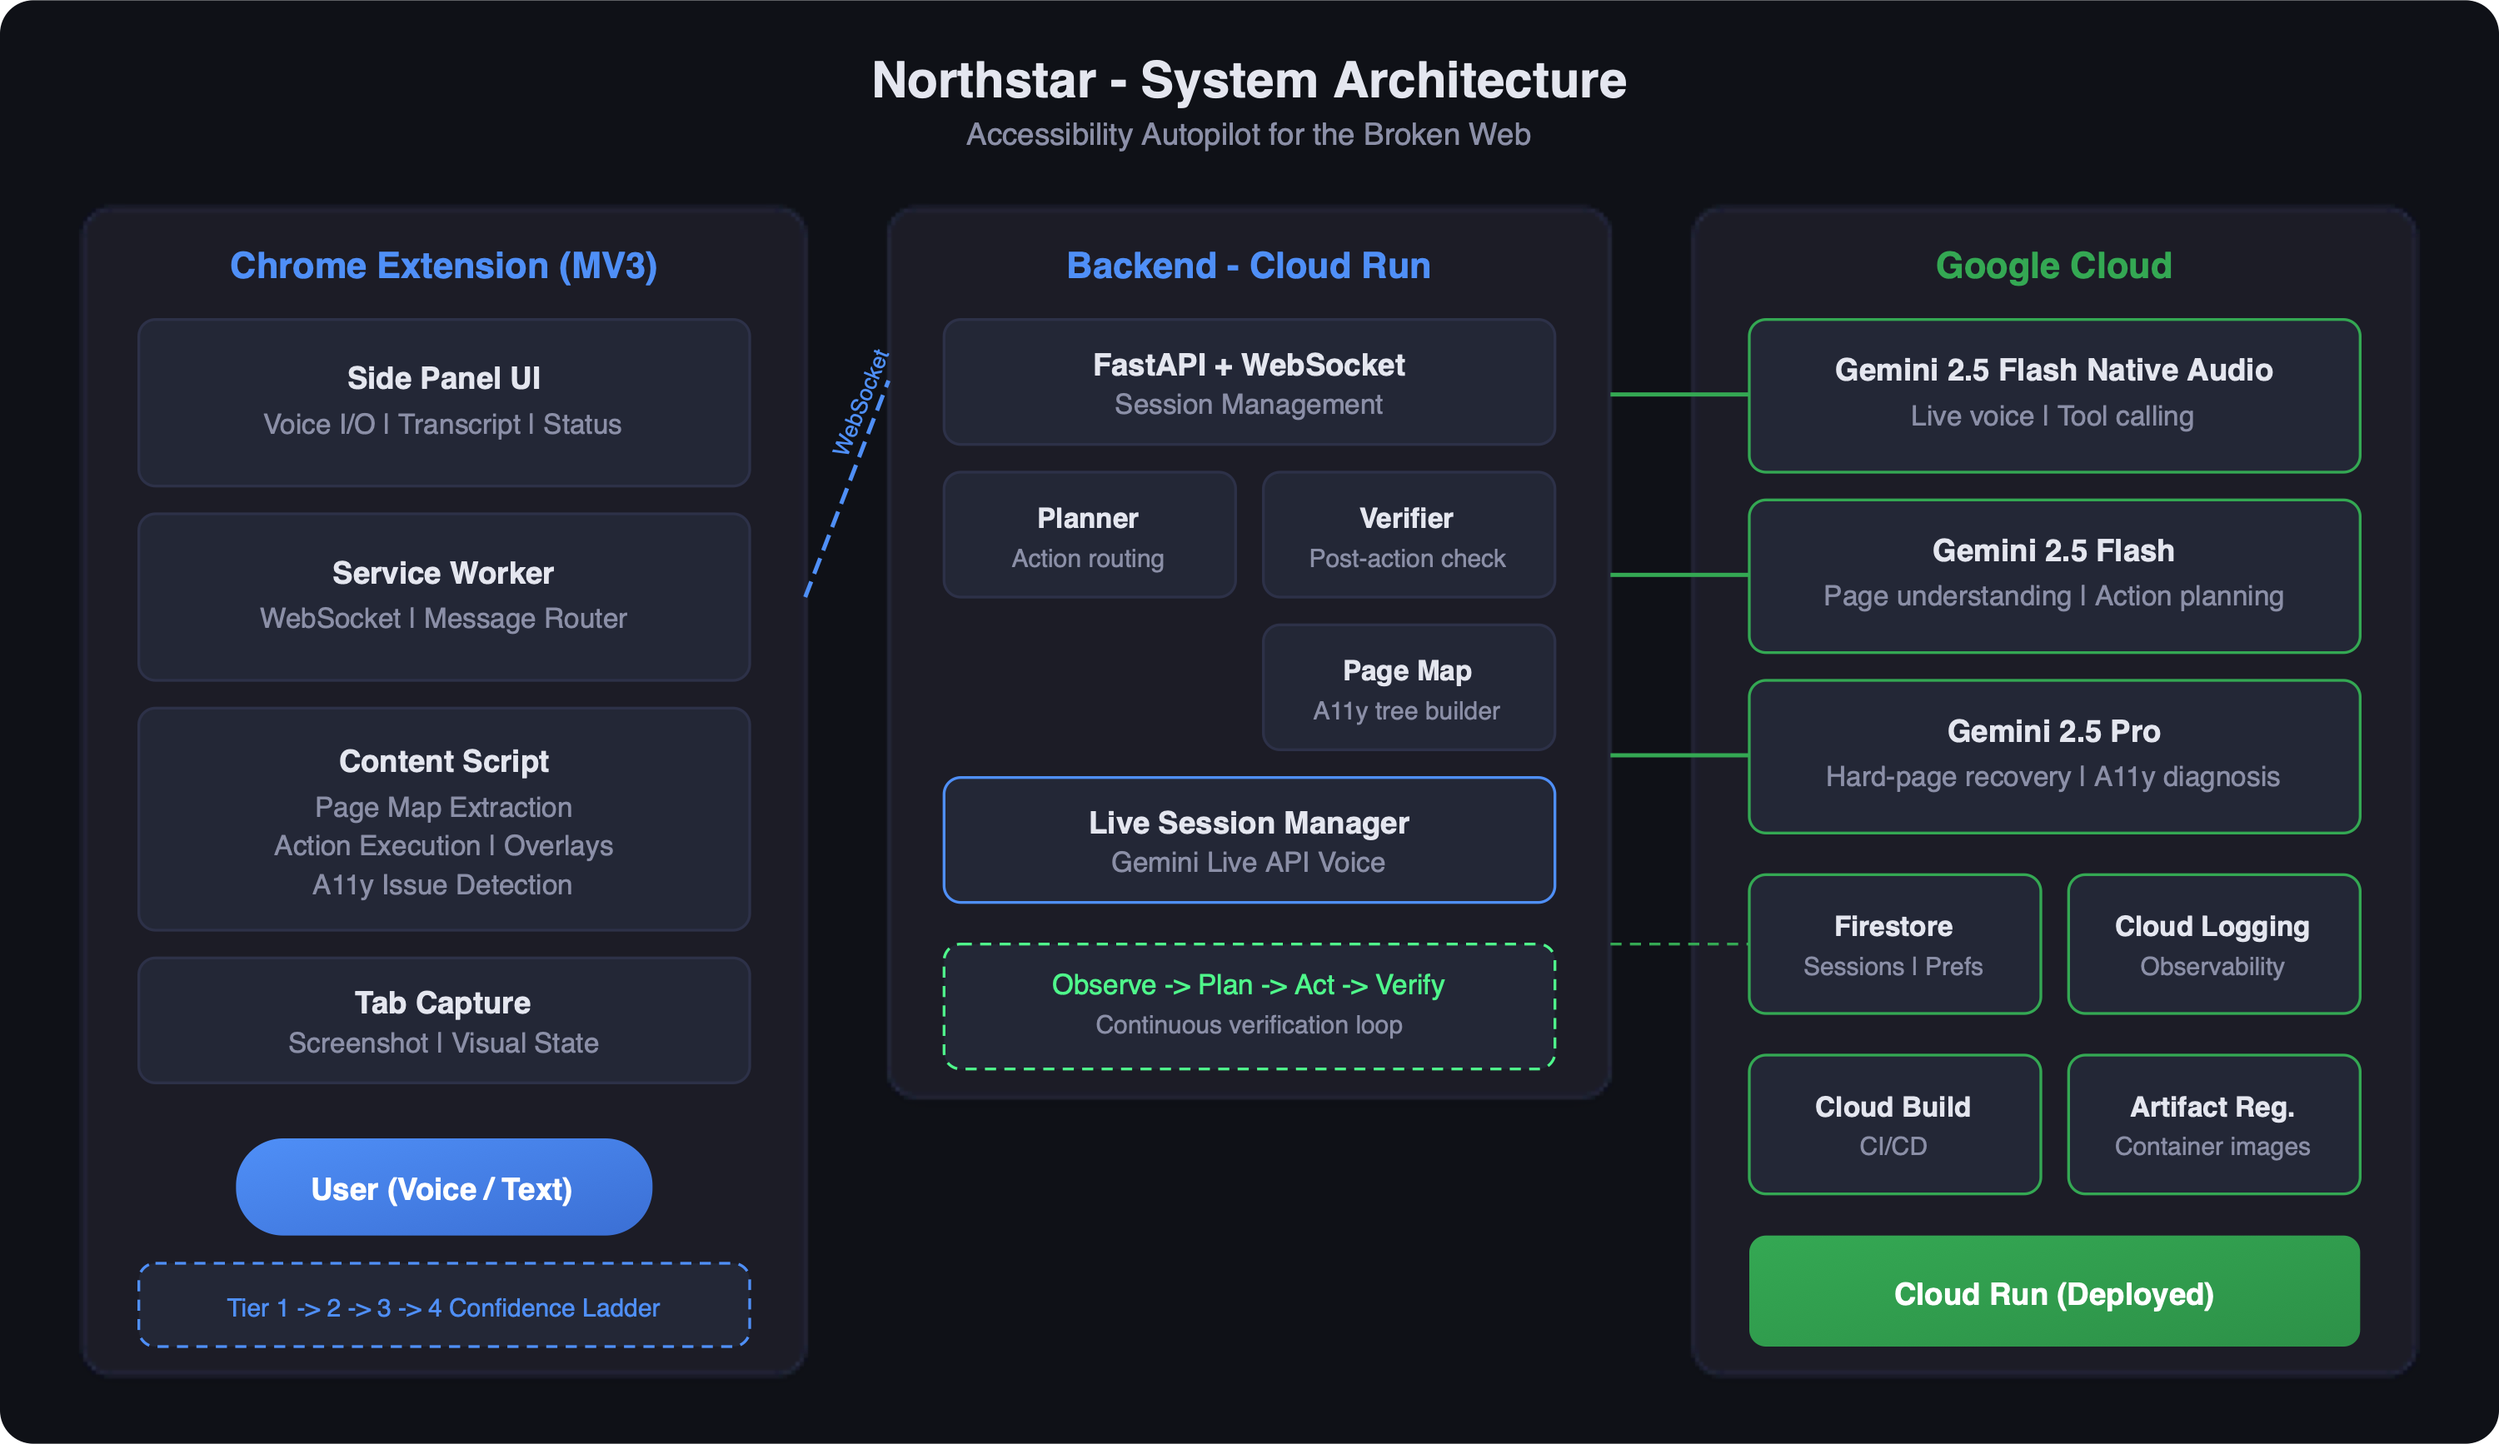
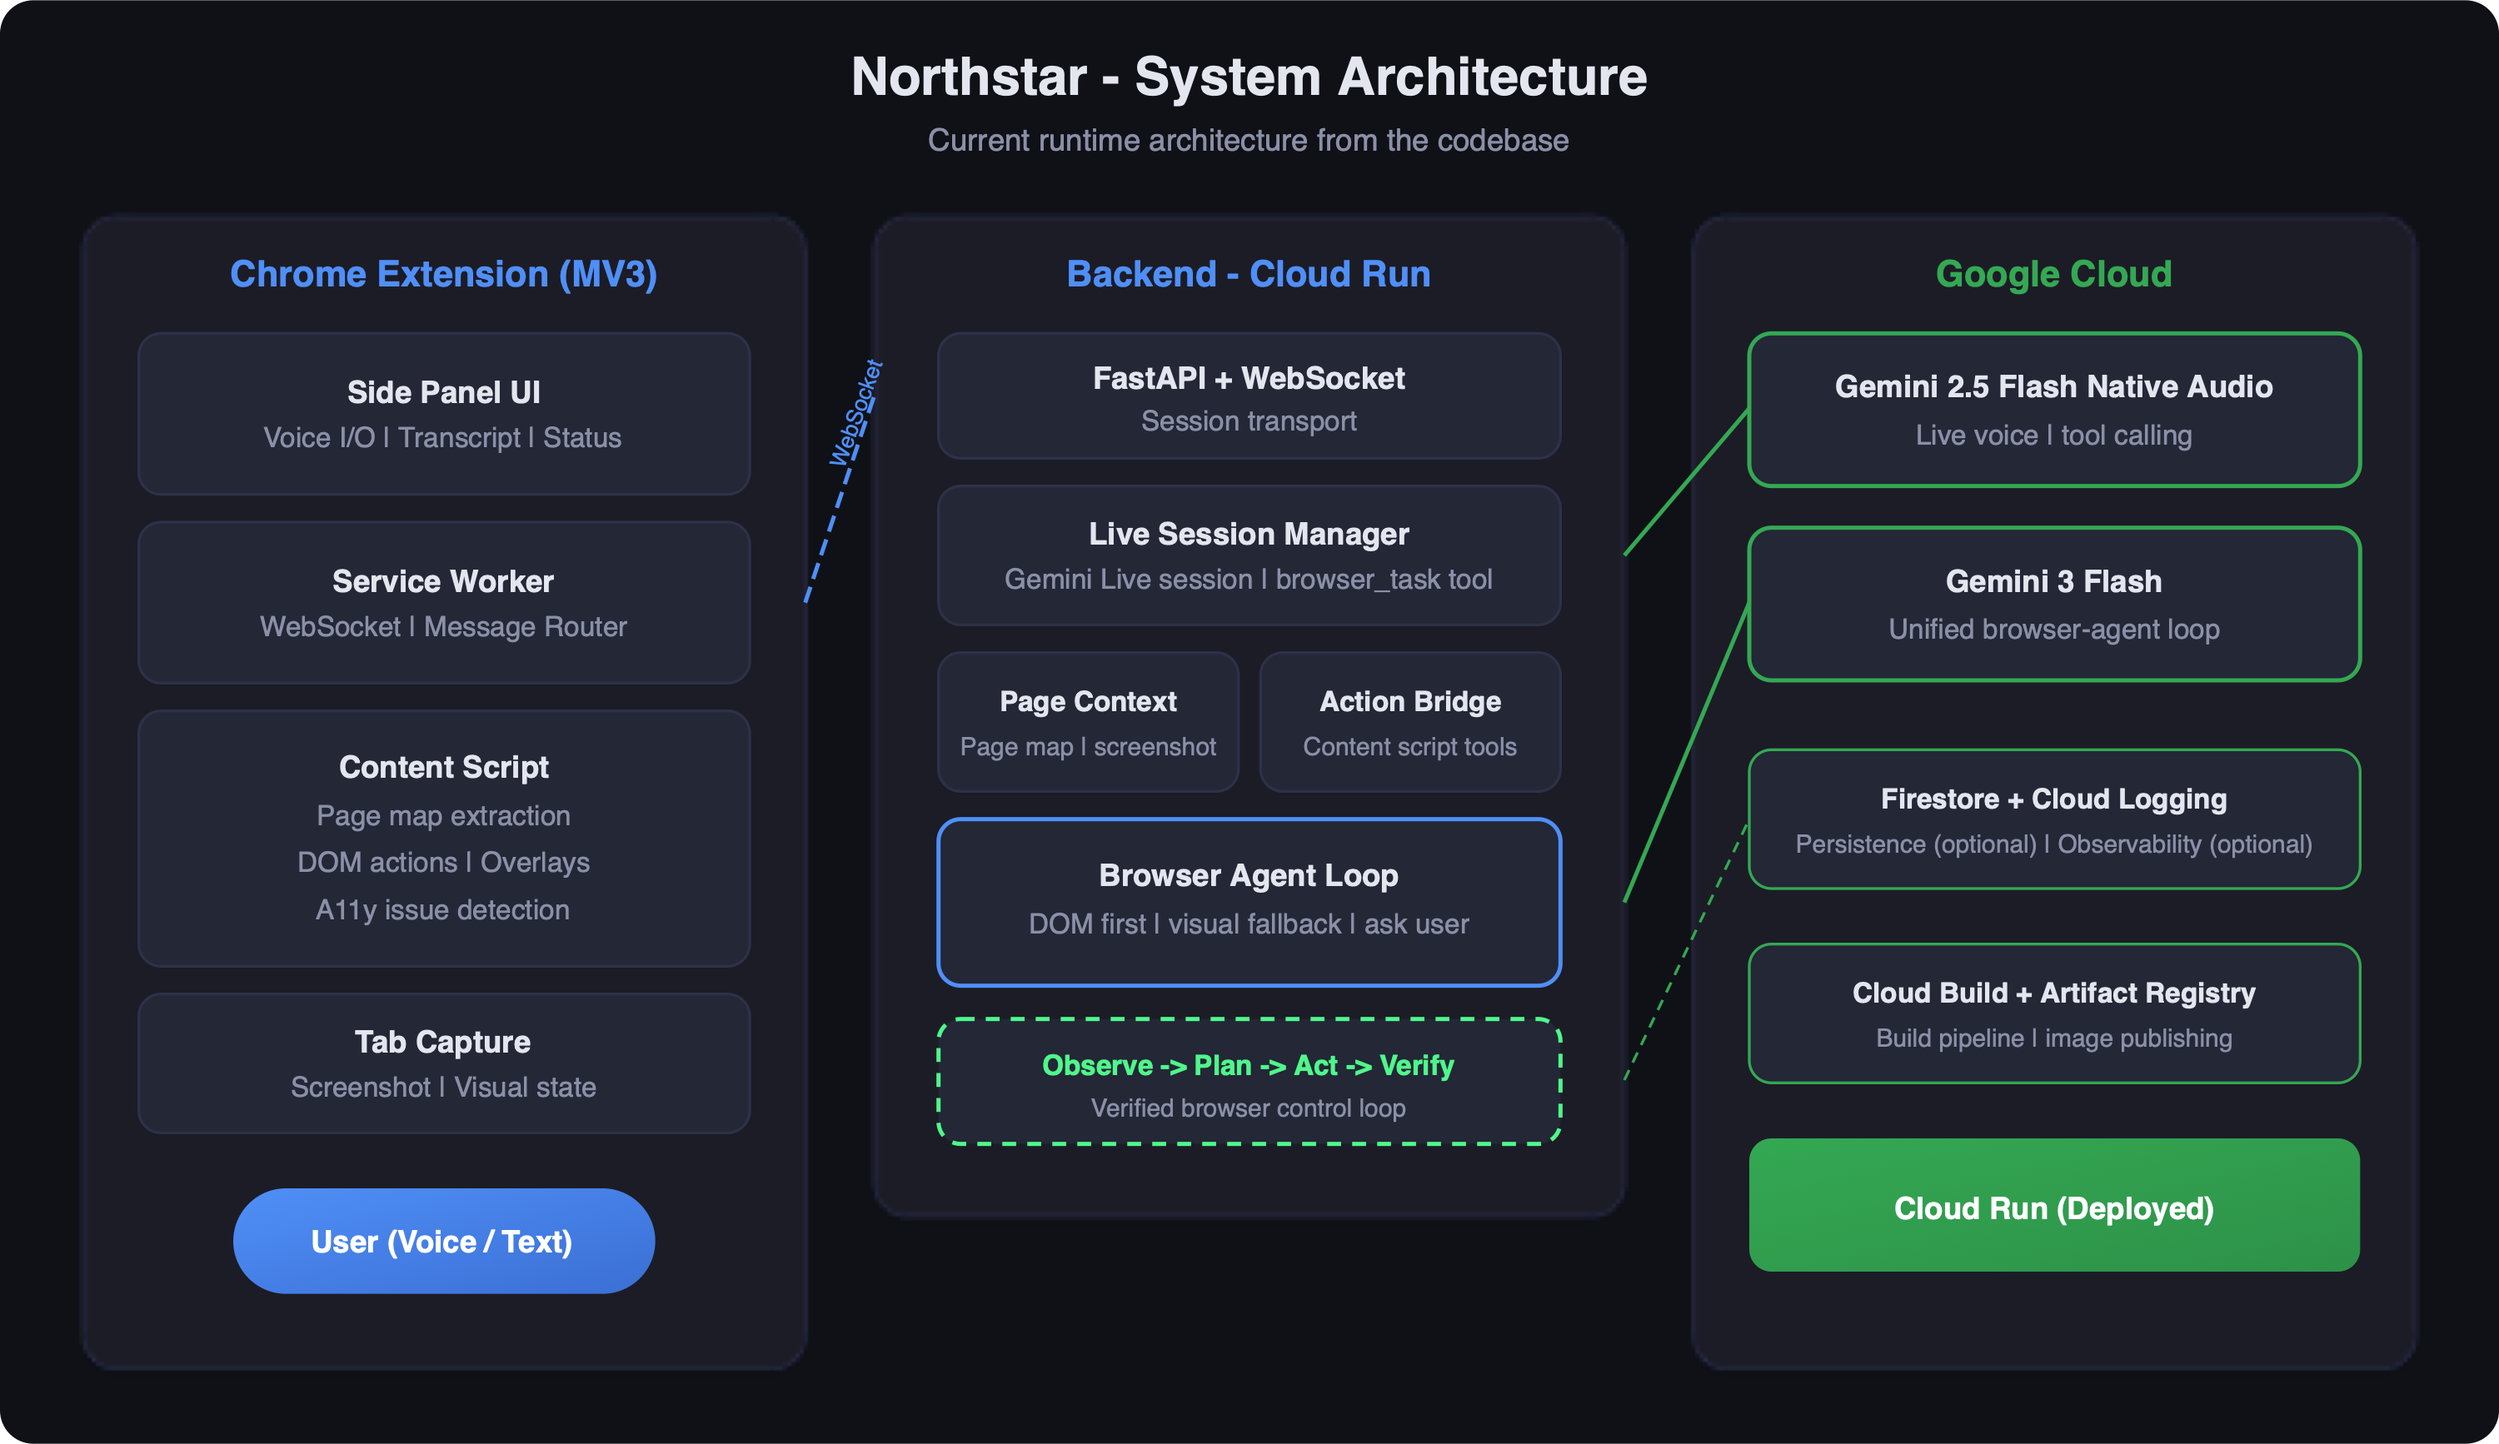
docs: align architecture with current runtime

diff --git a/backend/app/main.py b/backend/app/main.py
@@ -1,4 +1,4 @@
-"""Northstar backend for Gemini Live + Pro-orchestrated browser control."""
+"""Northstar backend for Gemini Live + browser-orchestrated control."""
 
 from __future__ import annotations
 

diff --git a/docs/demo-script.md b/docs/demo-script.md
@@ -97,7 +97,7 @@ A screen reader user would be unable to identify most interactive controls, coul
 **Screen:** Architecture diagram
 
 **Narration:**
-"Northstar runs as a Chrome extension with a persistent side panel. Voice input flows through the Gemini 2.5 Flash Native Audio Live API for real-time conversation. Page understanding uses Gemini 2.5 Flash to interpret both the accessibility tree and screenshots. Complex recovery uses Gemini 2.5 Pro. Every action goes through a four-tier confidence ladder — semantic first, visual fallback only when needed — and every action is verified after execution. Sessions are stored in Firestore, the backend runs on Cloud Run, and the whole pipeline is deployed via Cloud Build."
+"Northstar runs as a Chrome extension with a persistent side panel. Voice input flows through the Gemini 2.5 Flash Native Audio Live API for real-time conversation. The browser task loop uses Gemini 3 Flash with DOM-first actions, visual fallback when the page is broken, and verification after each step. Page context comes from the accessibility tree, the page map, and screenshots. Sessions can persist to Firestore, the backend runs on Cloud Run, and the deployment pipeline runs through Cloud Build."
 
 ## 3:45–4:00 — Closing
 
